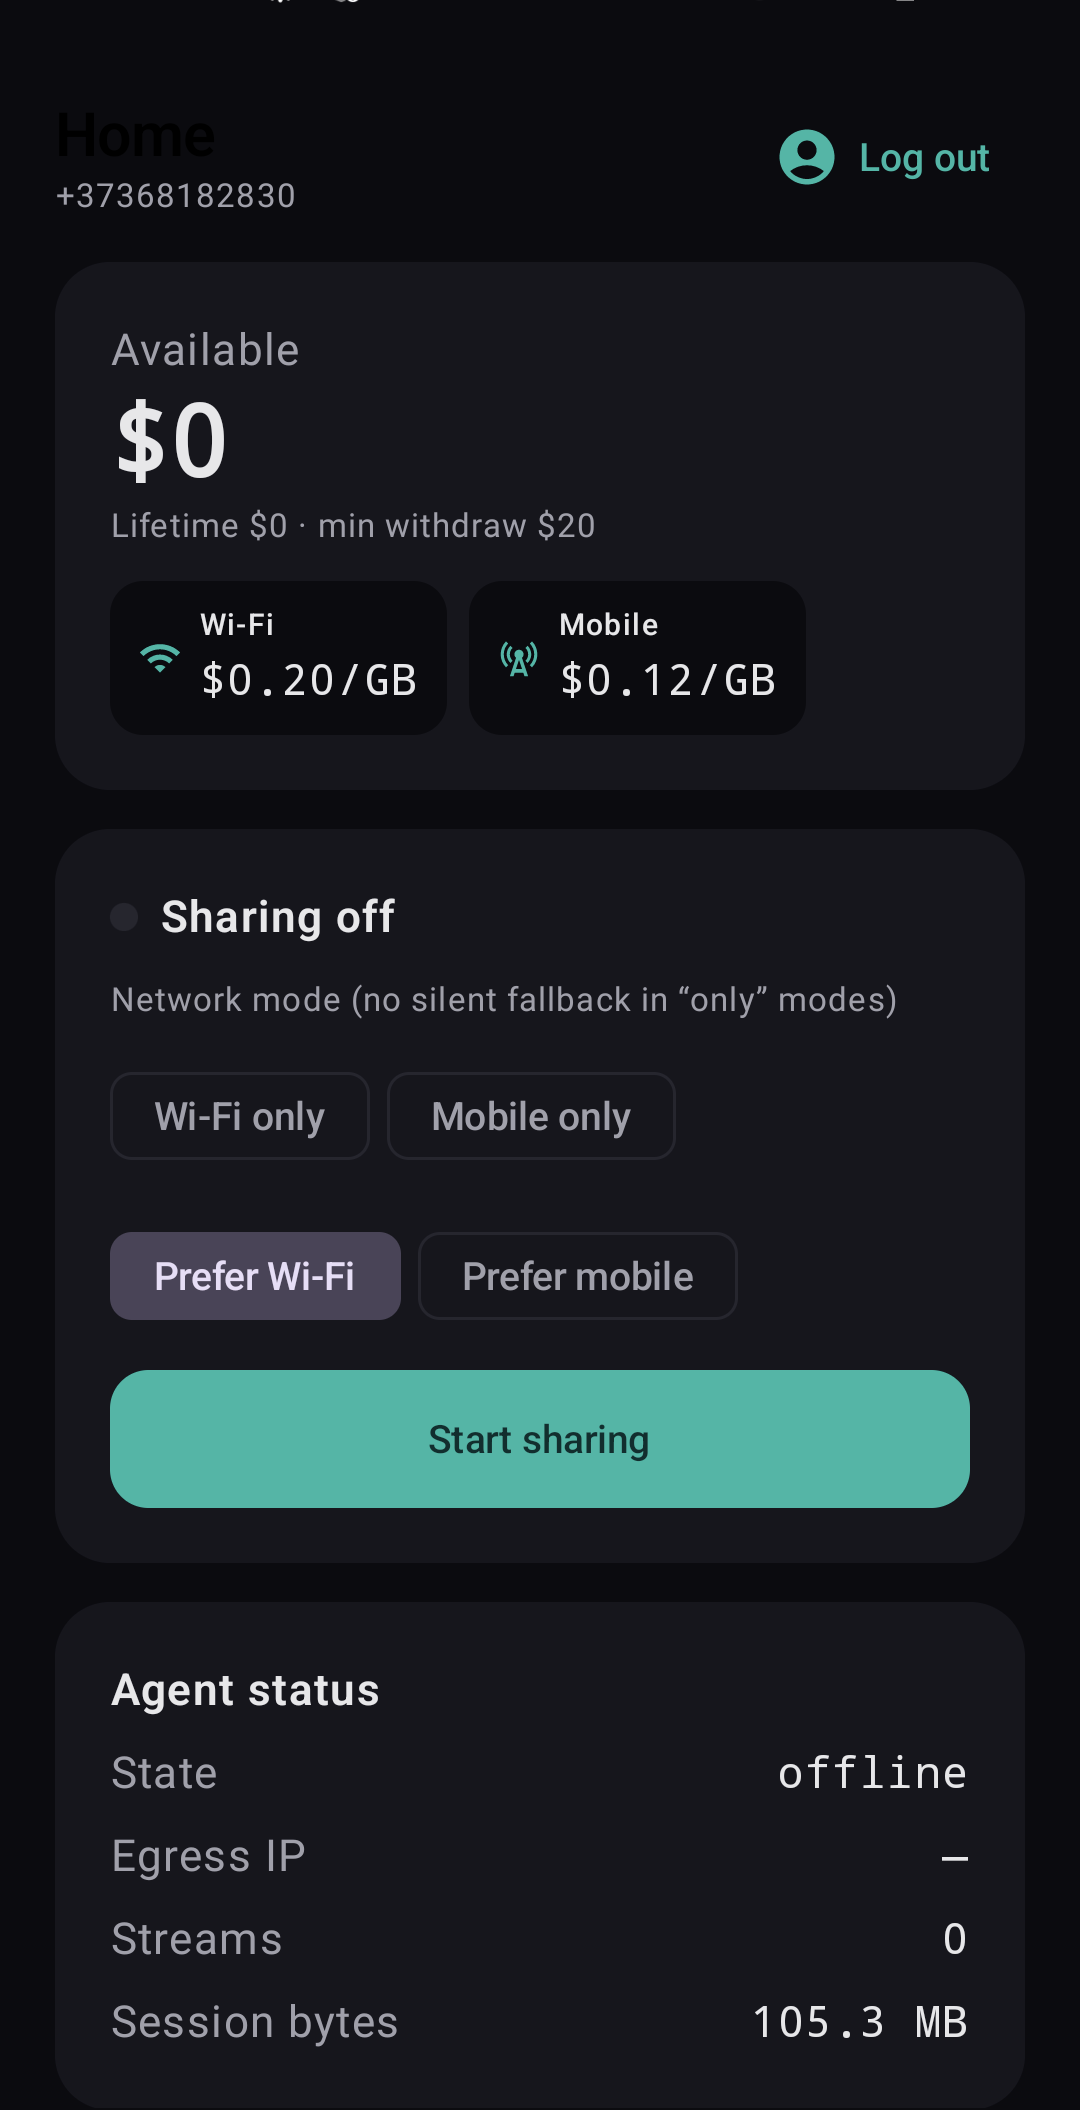
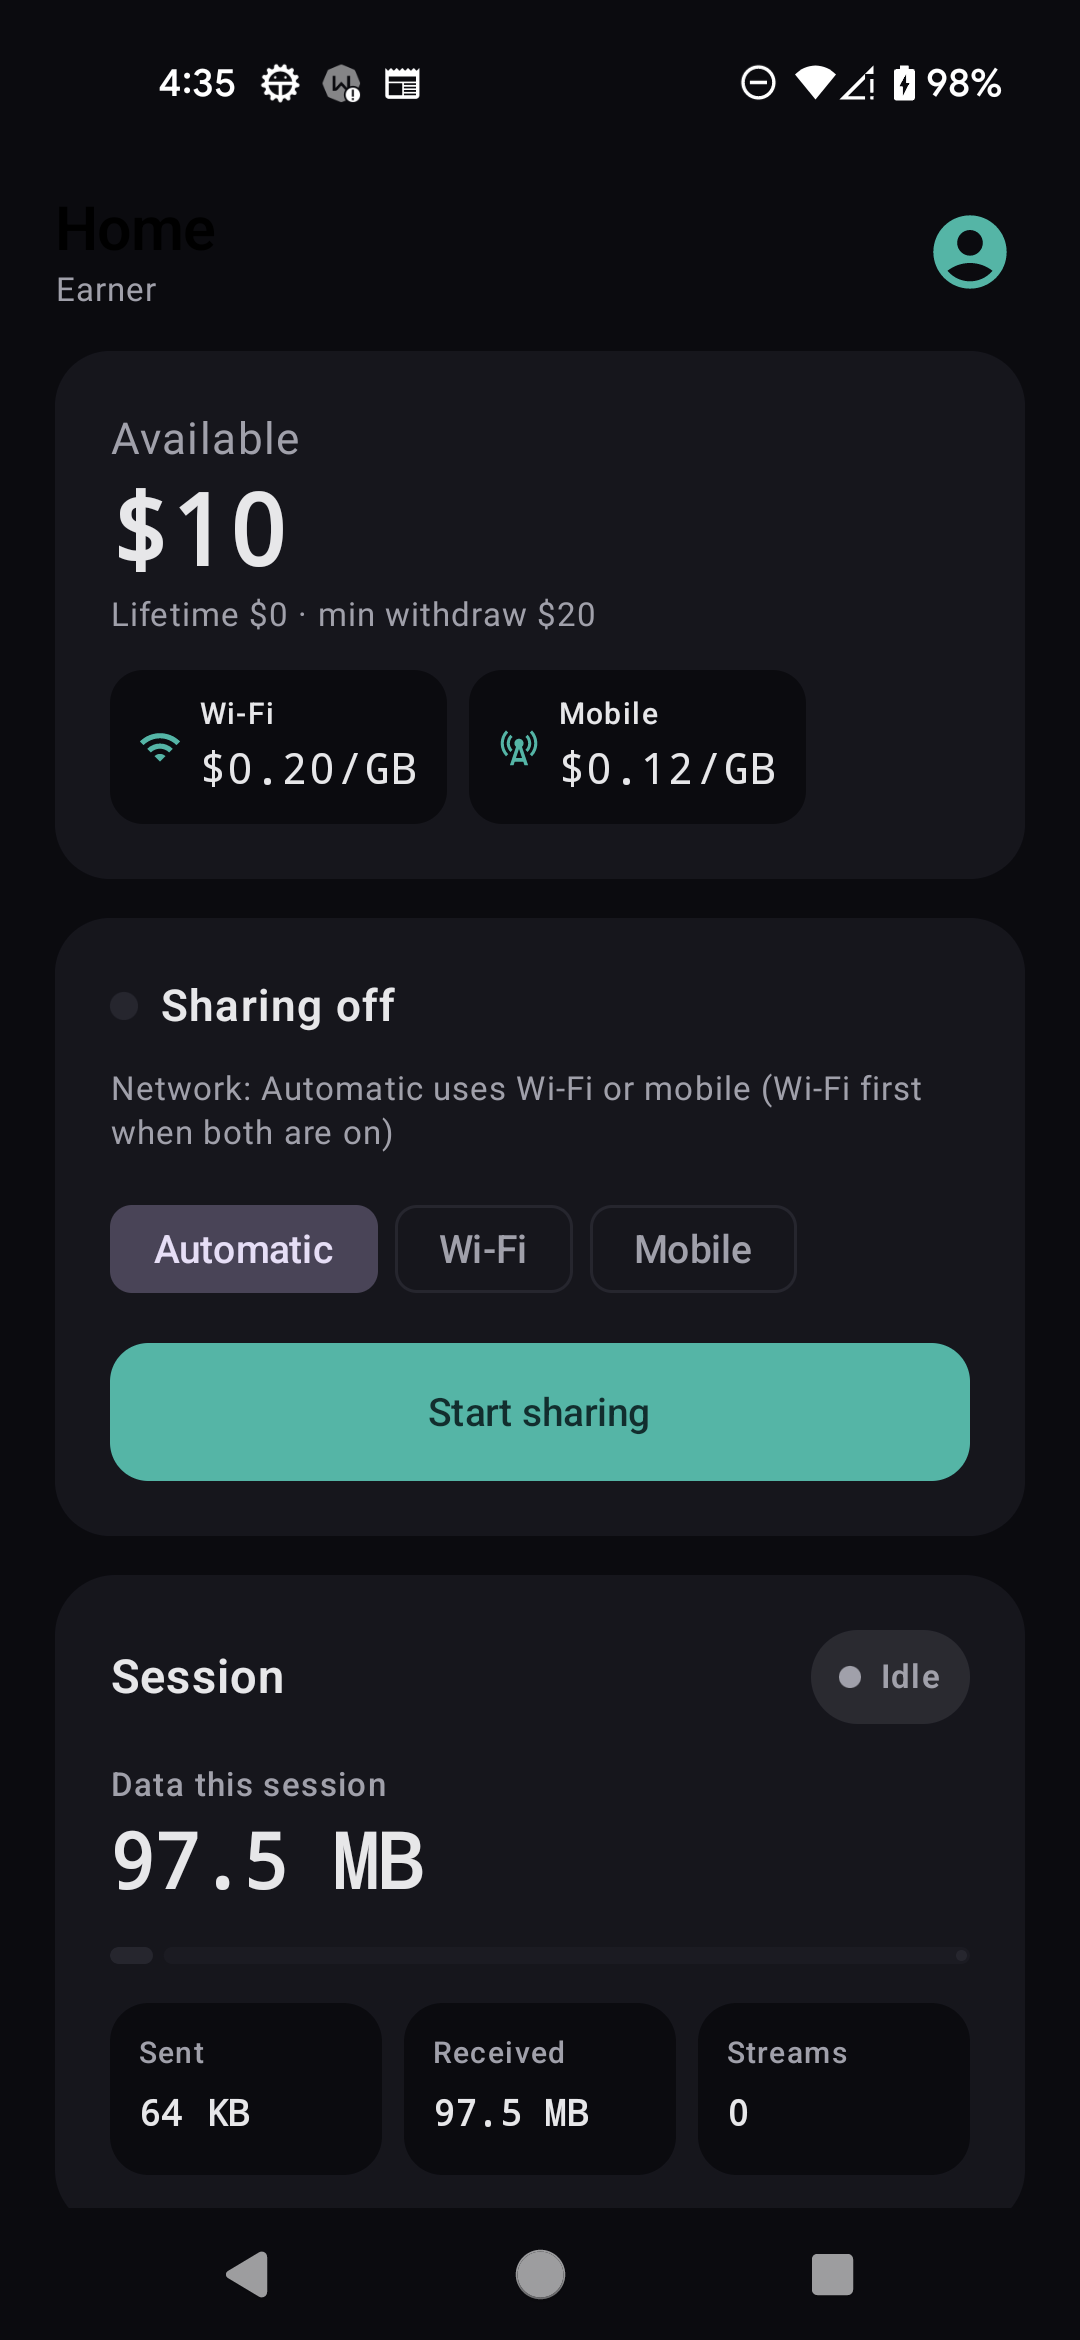
Update main-page app screenshots to the redesigned Android home.
Replace marketing hero and /app gallery assets with a fresh device
capture of balance, Automatic/Wi-Fi/Mobile modes, and session card.

diff --git a/src/components/earner/app-preview-page.tsx b/src/components/earner/app-preview-page.tsx
@@ -13,9 +13,9 @@ import { Badge, Button, SectionLabel } from "@/components/ui/primitives";
 import { PRICING, moneyFromCents } from "@/data/pricing";
 import { cn } from "@/lib/utils";
 
-/** Real Android screenshots captured on Pixel 4a / OnePlus (not mock UI). */
-// Cache-bust after cropping system chrome / cut-off headers
-const V = "v3";
+/** Real Android screenshots (redesigned Compose home — not mock UI). */
+// Cache-bust when marketing PNGs are replaced
+const V = "v4";
 const SHOTS = [
   {
     src: `/app/00-consent.png?${V}`,
@@ -29,23 +29,23 @@ const SHOTS = [
   },
   {
     src: `/app/02-home.png?${V}`,
-    title: "Home · rates",
-    caption: `Live rates: Wi‑Fi ${PRICING.headlineRateLabel}, mobile ${PRICING.mobileRateLabel}. Min withdraw ${moneyFromCents(PRICING.minWithdrawCents)}.`,
+    title: "Home · redesigned",
+    caption: `Balance, Wi‑Fi ${PRICING.headlineRateLabel} / mobile ${PRICING.mobileRateLabel}, Automatic · Wi‑Fi · Mobile, session card.`,
   },
   {
     src: `/app/03-sharing.png?${V}`,
-    title: "Sharing on",
-    caption: "Network modes (Wi‑Fi only / Mobile only / prefer). Agent online with real egress IP.",
+    title: "Home · session",
+    caption: "Session totals (sent / received / streams). Exit IP is last on the card when online.",
   },
   {
     src: `/app/04-agent-traffic.png?${V}`,
-    title: "Agent + traffic",
-    caption: "Session bytes, streams, tunnel_open — real reverse tunnel, not a demo spinner.",
+    title: "Earner home",
+    caption: "Same redesigned home used on the marketing hero — real device capture.",
   },
   {
     src: `/app/05-oneplus-sharing.png?${V}`,
-    title: "OnePlus build",
-    caption: "Same debug APK on Pixel 4a and OnePlus — production-shaped Compose client.",
+    title: "Phone build",
+    caption: "Production-shaped Compose client on physical devices (Pixel / OnePlus).",
   },
 ] as const;
 
@@ -67,8 +67,8 @@ const FEATURES = [
   },
   {
     icon: Signal,
-    title: "Live agent status",
-    body: "online / offline, egress IP, streams, session MB, tunnel_open — what the edge fleet sees.",
+    title: "Live session card",
+    body: "Session data, streams, and exit IP when online — no internal tunnel_open noise on the earner UI.",
   },
   {
     icon: Wallet,

diff --git a/src/components/marketing/landing.tsx b/src/components/marketing/landing.tsx
@@ -521,17 +521,17 @@ function SiteFooter() {
   );
 }
 
-/** Real Pixel 4a screenshot — matches /app gallery (not a mock balance UI). */
+/** Real Pixel screenshot of the redesigned earner home (not a mock UI). */
 function PhonePreview() {
   return (
     <div className="w-full max-w-[280px]">
       <div className="overflow-hidden rounded-[1.75rem] border border-border-strong bg-black phone-shadow shadow-2xl shadow-black/40">
         <img
-          src="/app/04-agent-traffic.png?v3"
-          alt="BusyProxy Android app — sharing on with live agent status"
+          src="/app/02-home.png?v4"
+          alt="BusyProxy Android app — redesigned home with balance, network modes, and session"
           className="block h-auto w-full"
           width={1080}
-          height={1920}
+          height={2340}
         />
       </div>
       <p className="mt-3 text-center text-xs text-fg-muted">

diff --git a/src/routes/app.tsx b/src/routes/app.tsx
@@ -29,7 +29,7 @@ export const Route = createFileRoute("/app")({
       },
       {
         property: "og:image",
-        content: "https://busyproxy.net/app/04-agent-traffic.png",
+        content: "https://busyproxy.net/app/02-home.png",
       },
     ],
     links: [{ rel: "canonical", href: "https://busyproxy.net/app" }],
